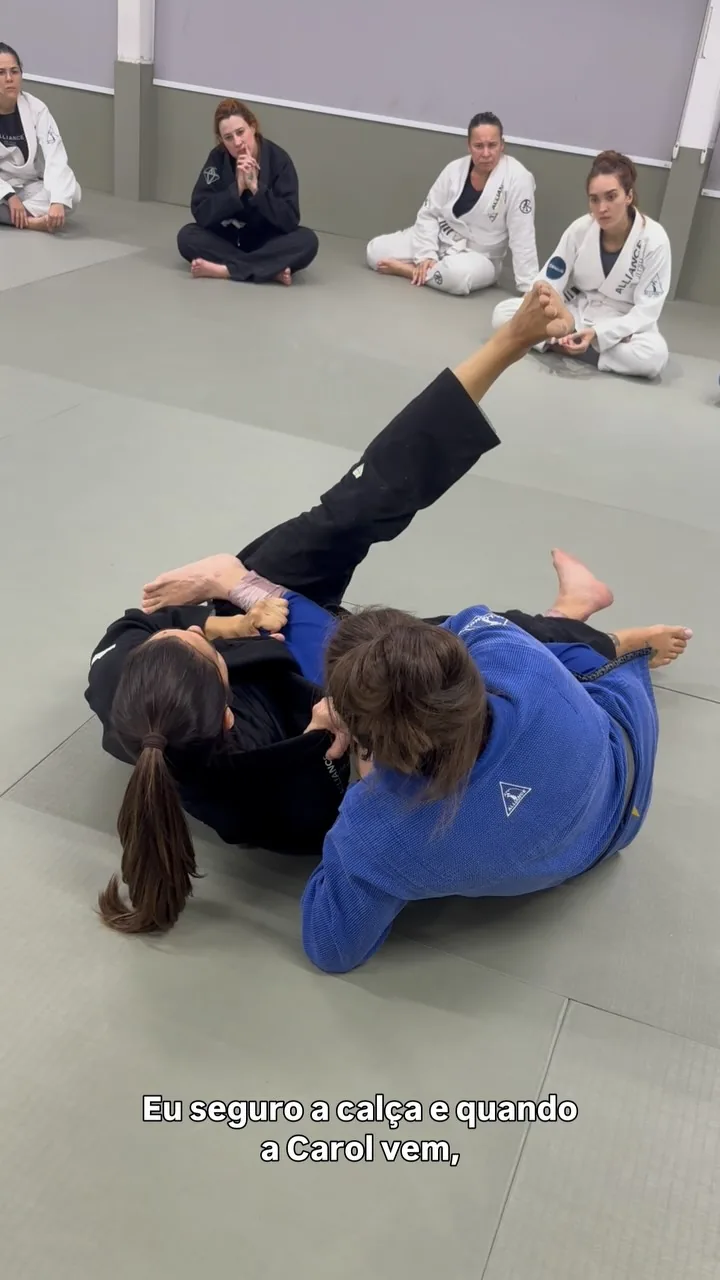
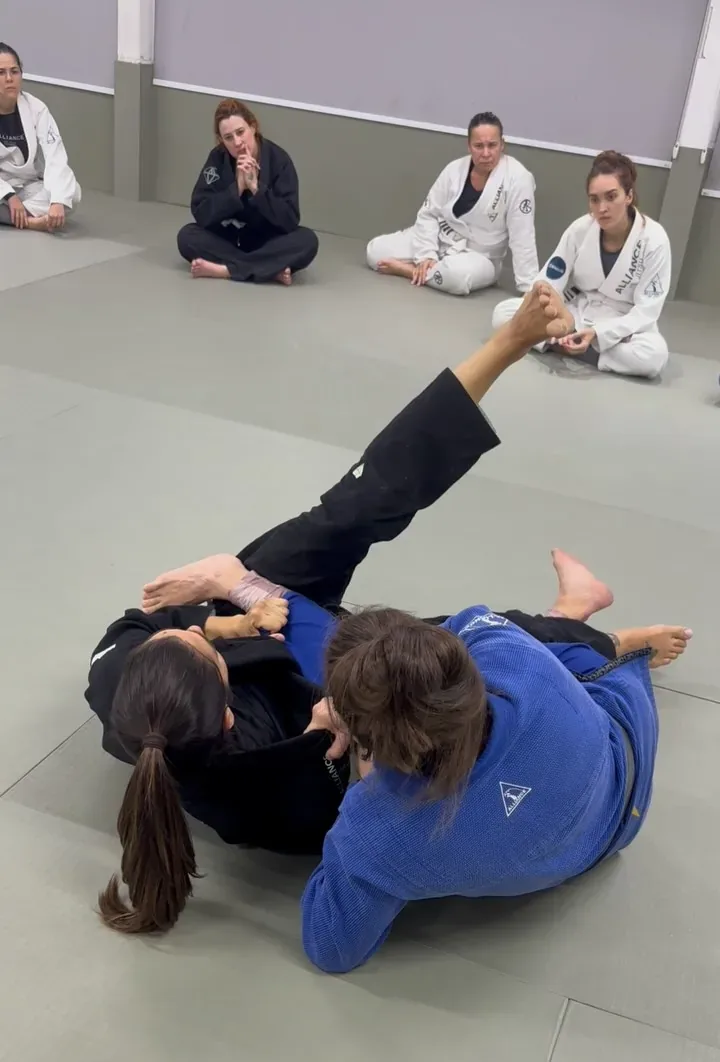
Nav nowrap, women's photos cropped clean of burned-in captions, Spanish chrome strings

diff --git a/es.html b/es.html
@@ -103,7 +103,7 @@
     <div class="stat"><b><span data-count="5">0</span><i>×</i></b><span>Campeón Mundial IBJJF</span></div>
     <div class="stat"><b><span data-count="3">0</span><i>×</i></b><span>Campeón ADCC</span></div>
     <div class="stat"><b><span data-count="4.9">0</span></b><span>Calificación en Google, 200 reseñas</span></div>
-    <div class="stat"><b>Único<i> en </i>la historia</b><span>Campeón del Super Grand Slam</span></div>
+    <div class="stat"><b>Único</b><span>Campeón del Super Grand Slam en la historia</span></div>
   </div>
 </section>
 
@@ -129,7 +129,7 @@
       <a class="pcard" href="start.html"><img src="img/beginners.webp" alt="" loading="lazy" width="846" height="564"><div class="pin"><small>Adultos · sin experiencia</small><b>Principiantes</b><span>Curso de cuatro semanas</span></div></a>
       <a class="pcard" href="programs.html#fundamentals"><img src="img/ig-fundamentals.webp" alt="" loading="lazy" width="720" height="1280"><div class="pin"><small>Adultos</small><b>Fundamentos</b><span>Niveles 1, 2 y 3</span></div></a>
       <a class="pcard" href="programs.html#nogi"><img src="img/ig-nogi-1.webp" alt="" loading="lazy" width="899" height="1600"><div class="pin"><small>Todos los niveles</small><b>No-Gi</b><span>Seis clases por semana</span></div></a>
-      <a class="pcard" href="womens.html"><img src="img/ig-womens-1.webp" alt="" loading="lazy" width="640" height="1136"><div class="pin"><small>Solo mujeres</small><b>Mujeres</b><span>Instructora cinturón negro</span></div></a>
+      <a class="pcard" href="womens.html"><img src="img/ig-womens-1.webp" alt="" loading="lazy" width="640" height="665"><div class="pin"><small>Solo mujeres</small><b>Mujeres</b><span>Instructora cinturón negro</span></div></a>
       <a class="pcard" href="kids.html"><img src="img/kids-run.webp" alt="" loading="lazy" width="1800" height="1200"><div class="pin"><small>3 a 12 años</small><b>Niños · Eagles</b><span>Cuatro grupos por edad</span></div></a>
       <a class="pcard" href="kids.html#teens"><img src="img/ig-kids-coach.webp" alt="" loading="lazy" width="640" height="1136"><div class="pin"><small>13 a 16 años</small><b>Adolescentes</b><span>Mar y Jue 5 pm</span></div></a>
       <a class="pcard" href="programs.html#advanced"><img src="img/ig-nogi-win.webp" alt="" loading="lazy" width="901" height="1600"><div class="pin"><small>Cinturón azul en adelante</small><b>Avanzado y competición</b><span>La sala de Cobrinha</span></div></a>

diff --git a/programs.html b/programs.html
@@ -92,7 +92,7 @@
       <a class="pcard" href="#fundamentals"><img src="img/ig-fundamentals.webp" alt="" loading="lazy" width="720" height="1280"><div class="pin"><small>Adults</small><b>Fundamentals</b><span>Levels 1, 2, 3</span></div></a>
       <a class="pcard" href="#advanced"><img src="img/ig-nogi-win.webp" alt="" loading="lazy" width="901" height="1600"><div class="pin"><small>Blue belt and up</small><b>Advanced &amp; Competition</b><span>Cobrinha's room</span></div></a>
       <a class="pcard" href="#nogi"><img src="img/ig-nogi-1.webp" alt="" loading="lazy" width="899" height="1600"><div class="pin"><small>All levels</small><b>No-Gi</b><span>Six classes a week</span></div></a>
-      <a class="pcard" href="womens.html"><img src="img/ig-womens-1.webp" alt="" loading="lazy" width="640" height="1136"><div class="pin"><small>Women only</small><b>Women's</b><span>Black belt coach</span></div></a>
+      <a class="pcard" href="womens.html"><img src="img/ig-womens-1.webp" alt="" loading="lazy" width="640" height="665"><div class="pin"><small>Women only</small><b>Women's</b><span>Black belt coach</span></div></a>
       <a class="pcard" href="kids.html"><img src="img/kids-run.webp" alt="" loading="lazy" width="1800" height="1200"><div class="pin"><small>Ages 3–12</small><b>Kids · Eagles</b><span>Four age groups</span></div></a>
       <a class="pcard" href="kids.html#teens"><img src="img/ig-kids-coach.webp" alt="" loading="lazy" width="640" height="1136"><div class="pin"><small>Ages 13–16</small><b>Teens</b><span>Tue &amp; Thu 5 pm</span></div></a>
       <a class="pcard" href="#private"><img src="img/cobrinha.webp" alt="" loading="lazy" width="500" height="749"><div class="pin"><small>One on one</small><b>Private lessons</b><span>From $160</span></div></a>
@@ -154,7 +154,7 @@
 
 <section id="womens">
   <div class="wrap split rev">
-    <div class="media tall rv l"><img src="img/ig-womens-2.webp" alt="Women's class: Ursula coaching a technique while the class watches" loading="lazy" width="720" height="1280"></div>
+    <div class="media tall rv l"><img src="img/ig-womens-2.webp" alt="Women's class: Ursula coaching a technique while the class watches" loading="lazy" width="720" height="1062"></div>
     <div class="rv">
       <p class="eyebrow">Women only</p>
       <h2 class="display">Women's program.</h2>

diff --git a/css/site.css b/css/site.css
@@ -53,8 +53,8 @@ h3.display{font-size:clamp(28px,3vw,40px)}
 
 /* nav */
 .nav{position:sticky;top:0;z-index:50;background:rgba(11,11,12,.92);backdrop-filter:blur(10px);-webkit-backdrop-filter:blur(10px);color:var(--tx-l);border-bottom:1px solid rgba(255,255,255,.08)}
-.nav-in{display:flex;align-items:center;gap:28px;height:72px}
-.brand{display:grid;grid-template-columns:auto 1fr;grid-template-rows:auto auto;column-gap:10px;align-items:center;line-height:1.05;letter-spacing:.14em;text-transform:uppercase}
+.nav-in{display:flex;align-items:center;gap:22px;height:72px}
+.brand{white-space:nowrap;display:grid;grid-template-columns:auto 1fr;grid-template-rows:auto auto;column-gap:10px;align-items:center;line-height:1.05;letter-spacing:.14em;text-transform:uppercase}
 .brand .mark{grid-row:1/3;width:36px;height:36px;object-fit:contain}
 @media(min-width:1000px){.brand .mark{width:44px;height:44px}}
 .brand-1{font-weight:700;font-size:17px;letter-spacing:.12em}
@@ -63,7 +63,7 @@ h3.display{font-size:clamp(28px,3vw,40px)}
 .nl{font-size:13px;letter-spacing:.12em;text-transform:uppercase;font-weight:600;color:var(--tx-lm);padding:6px 0;border-bottom:2px solid transparent}
 .nl:hover,.nl.on{color:#fff;border-color:var(--red)}
 .nav-cta{display:none;margin-left:auto;align-items:center;gap:18px}
-.tel{font-weight:600;font-size:14px;color:var(--tx-lm)}
+.tel{font-weight:600;font-size:14px;color:var(--tx-lm);white-space:nowrap}
 .tel:hover{color:#fff}
 .burger{margin-left:auto;background:none;border:0;width:44px;height:44px;display:grid;place-items:center;gap:0;cursor:pointer;padding:0}
 .burger span{display:block;width:22px;height:2px;background:#fff;margin:2.5px 0;transition:transform .2s,opacity .2s}
@@ -416,3 +416,5 @@ section:not(.dark) .plan-name,section:not(.dark) .plan-per,section:not(.dark) .p
 .btn.red::after{content:"→";display:inline-block;transition:transform .2s;margin-left:2px}
 .btn.red:hover::after{transform:translateX(4px)}
 @media(prefers-reduced-motion:reduce){.display .w,.hero .display .w{opacity:1;transform:none;animation:none;transition:none}.next .dot{animation:none}}
+
+@media (max-width:1280px){.nav .tel[href^=tel]{display:none}}

diff --git a/index.html b/index.html
@@ -169,7 +169,7 @@
       <a class="pcard" href="programs.html#fundamentals"><img src="img/ig-fundamentals.webp" alt="" loading="lazy" width="720" height="1280"><div class="pin"><small>Adults · white to blue</small><b>Fundamentals</b><span>Levels 1, 2 and 3 by stripe</span></div></a>
       <a class="pcard" href="programs.html#advanced"><img src="img/ig-nogi-win.webp" alt="" loading="lazy" width="901" height="1600"><div class="pin"><small>Adults · blue belt and up</small><b>Advanced &amp; Competition</b><span>Cobrinha's room</span></div></a>
       <a class="pcard" href="programs.html#nogi"><img src="img/ig-nogi-1.webp" alt="" loading="lazy" width="899" height="1600"><div class="pin"><small>Adults · all levels</small><b>No-Gi</b><span>Six classes a week, Tuesday and Thursday</span></div></a>
-      <a class="pcard" href="womens.html"><img src="img/ig-womens-1.webp" alt="" loading="lazy" width="640" height="1136"><div class="pin"><small>Women only · black belt coach</small><b>Women's</b><span>Tue 8 am · Sat 11:15 am · free trial Wed 6:10 pm</span></div></a>
+      <a class="pcard" href="womens.html"><img src="img/ig-womens-1.webp" alt="" loading="lazy" width="640" height="665"><div class="pin"><small>Women only · black belt coach</small><b>Women's</b><span>Tue 8 am · Sat 11:15 am · free trial Wed 6:10 pm</span></div></a>
       <a class="pcard" href="kids.html"><img src="img/kids-run.webp" alt="" loading="lazy" width="1800" height="1200"><div class="pin"><small>Ages 3–12</small><b>Kids · Eagles</b><span>Baby, Little and Warrior Eagles</span></div></a>
       <a class="pcard" href="kids.html#teens"><img src="img/ig-kids-coach.webp" alt="" loading="lazy" width="640" height="1136"><div class="pin"><small>Ages 13–16</small><b>Teens</b><span>Tue &amp; Thu 5 pm</span></div></a>
       <a class="pcard" href="programs.html#private"><img src="img/cobrinha.webp" alt="" loading="lazy" width="500" height="749"><div class="pin"><small>One on one</small><b>Private lessons</b><span>Black and brown belt instructors</span></div></a>

diff --git a/js/site.js b/js/site.js
@@ -194,3 +194,13 @@
     rows.forEach(function (r) { var d = r.querySelector('td.d').textContent.trim(), m = /(\d+):(\d+)\s*(am|pm)/i.exec(r.querySelector('td.t').textContent); if (d === today && m) { var mm = (+m[1] % 12 + (/pm/i.test(m[3]) ? 12 : 0)) * 60 + (+m[2]); if (mm >= nowMin && mm < nowMin + 180) r.classList.add('now'); } });
   }
 })();
+
+/* Spanish page: translate the shared chrome (nav, dock, footer CTAs) */
+(function(){
+  if(document.documentElement.lang!=="es")return;
+  var ES_STRINGS={"Book a free class":"Reservar clase gratis","Call":"Llamar","Sign the waiver":"Firmar la exención","Academy":"Academia","Programs":"Programas","Kids":"Niños","Schedule":"Horarios","Contact":"Contacto","Women's program":"Programa de mujeres","Membership":"Membresía","Q&A":"Preguntas","Instructors":"Instructores","Visit":"Visítanos","Beginners":"Principiantes","Free class":"Clase gratis","Pricing":"Precios","Privacy":"Privacidad","Call us":"Llámanos","Start here":"Empieza aquí","Home":"Inicio"};
+  document.querySelectorAll("nav a, .menu a, .dock a, .cta-band a, .cta-band h2, footer a, footer h4").forEach(function(a){
+    var k=(a.textContent||"").replace(/\s+/g," ").trim();
+    if(ES_STRINGS[k]){a.textContent=ES_STRINGS[k];}
+  });
+})();

diff --git a/womens.html b/womens.html
@@ -77,7 +77,7 @@
 
 <main id="main">
 <section class="phero img">
-  <img src="img/ig-womens-2.webp" alt="" aria-hidden="true" width="720" height="1280">
+  <img src="img/ig-womens-2.webp" alt="" aria-hidden="true" width="720" height="1062">
   <div class="wrap">
     <p class="crumbs"><a href="index.html">Home</a> / <a href="programs.html">Programs</a> / Women's</p>
     <p class="eyebrow">Women only · black belt coach</p>
